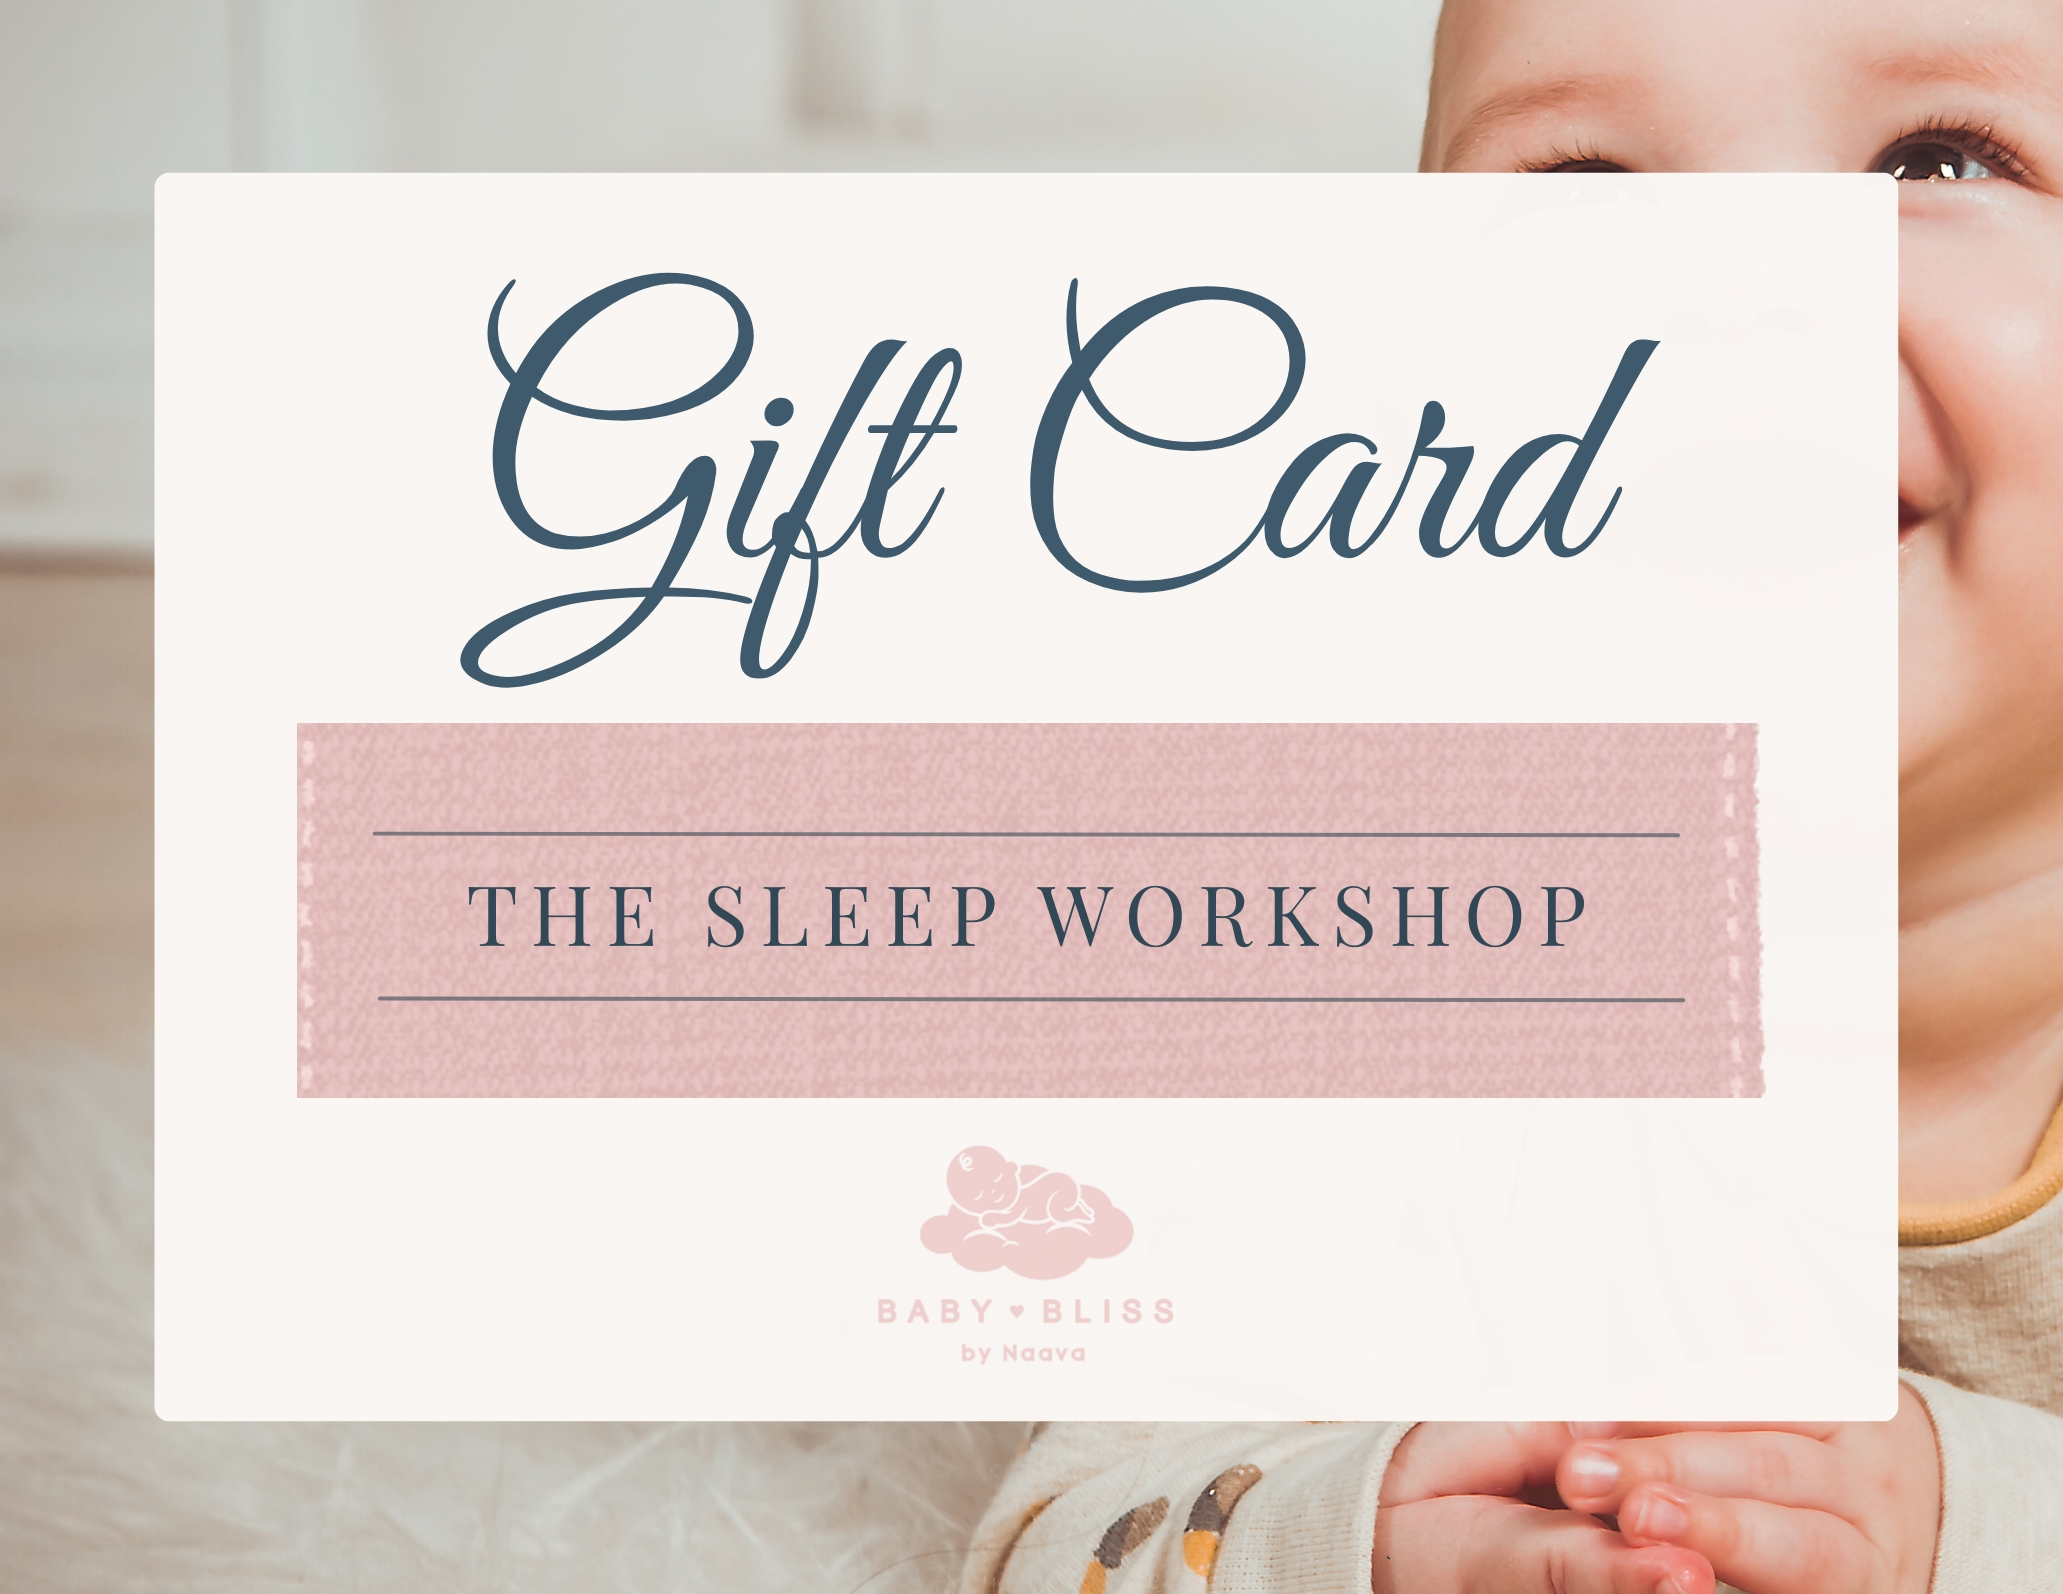
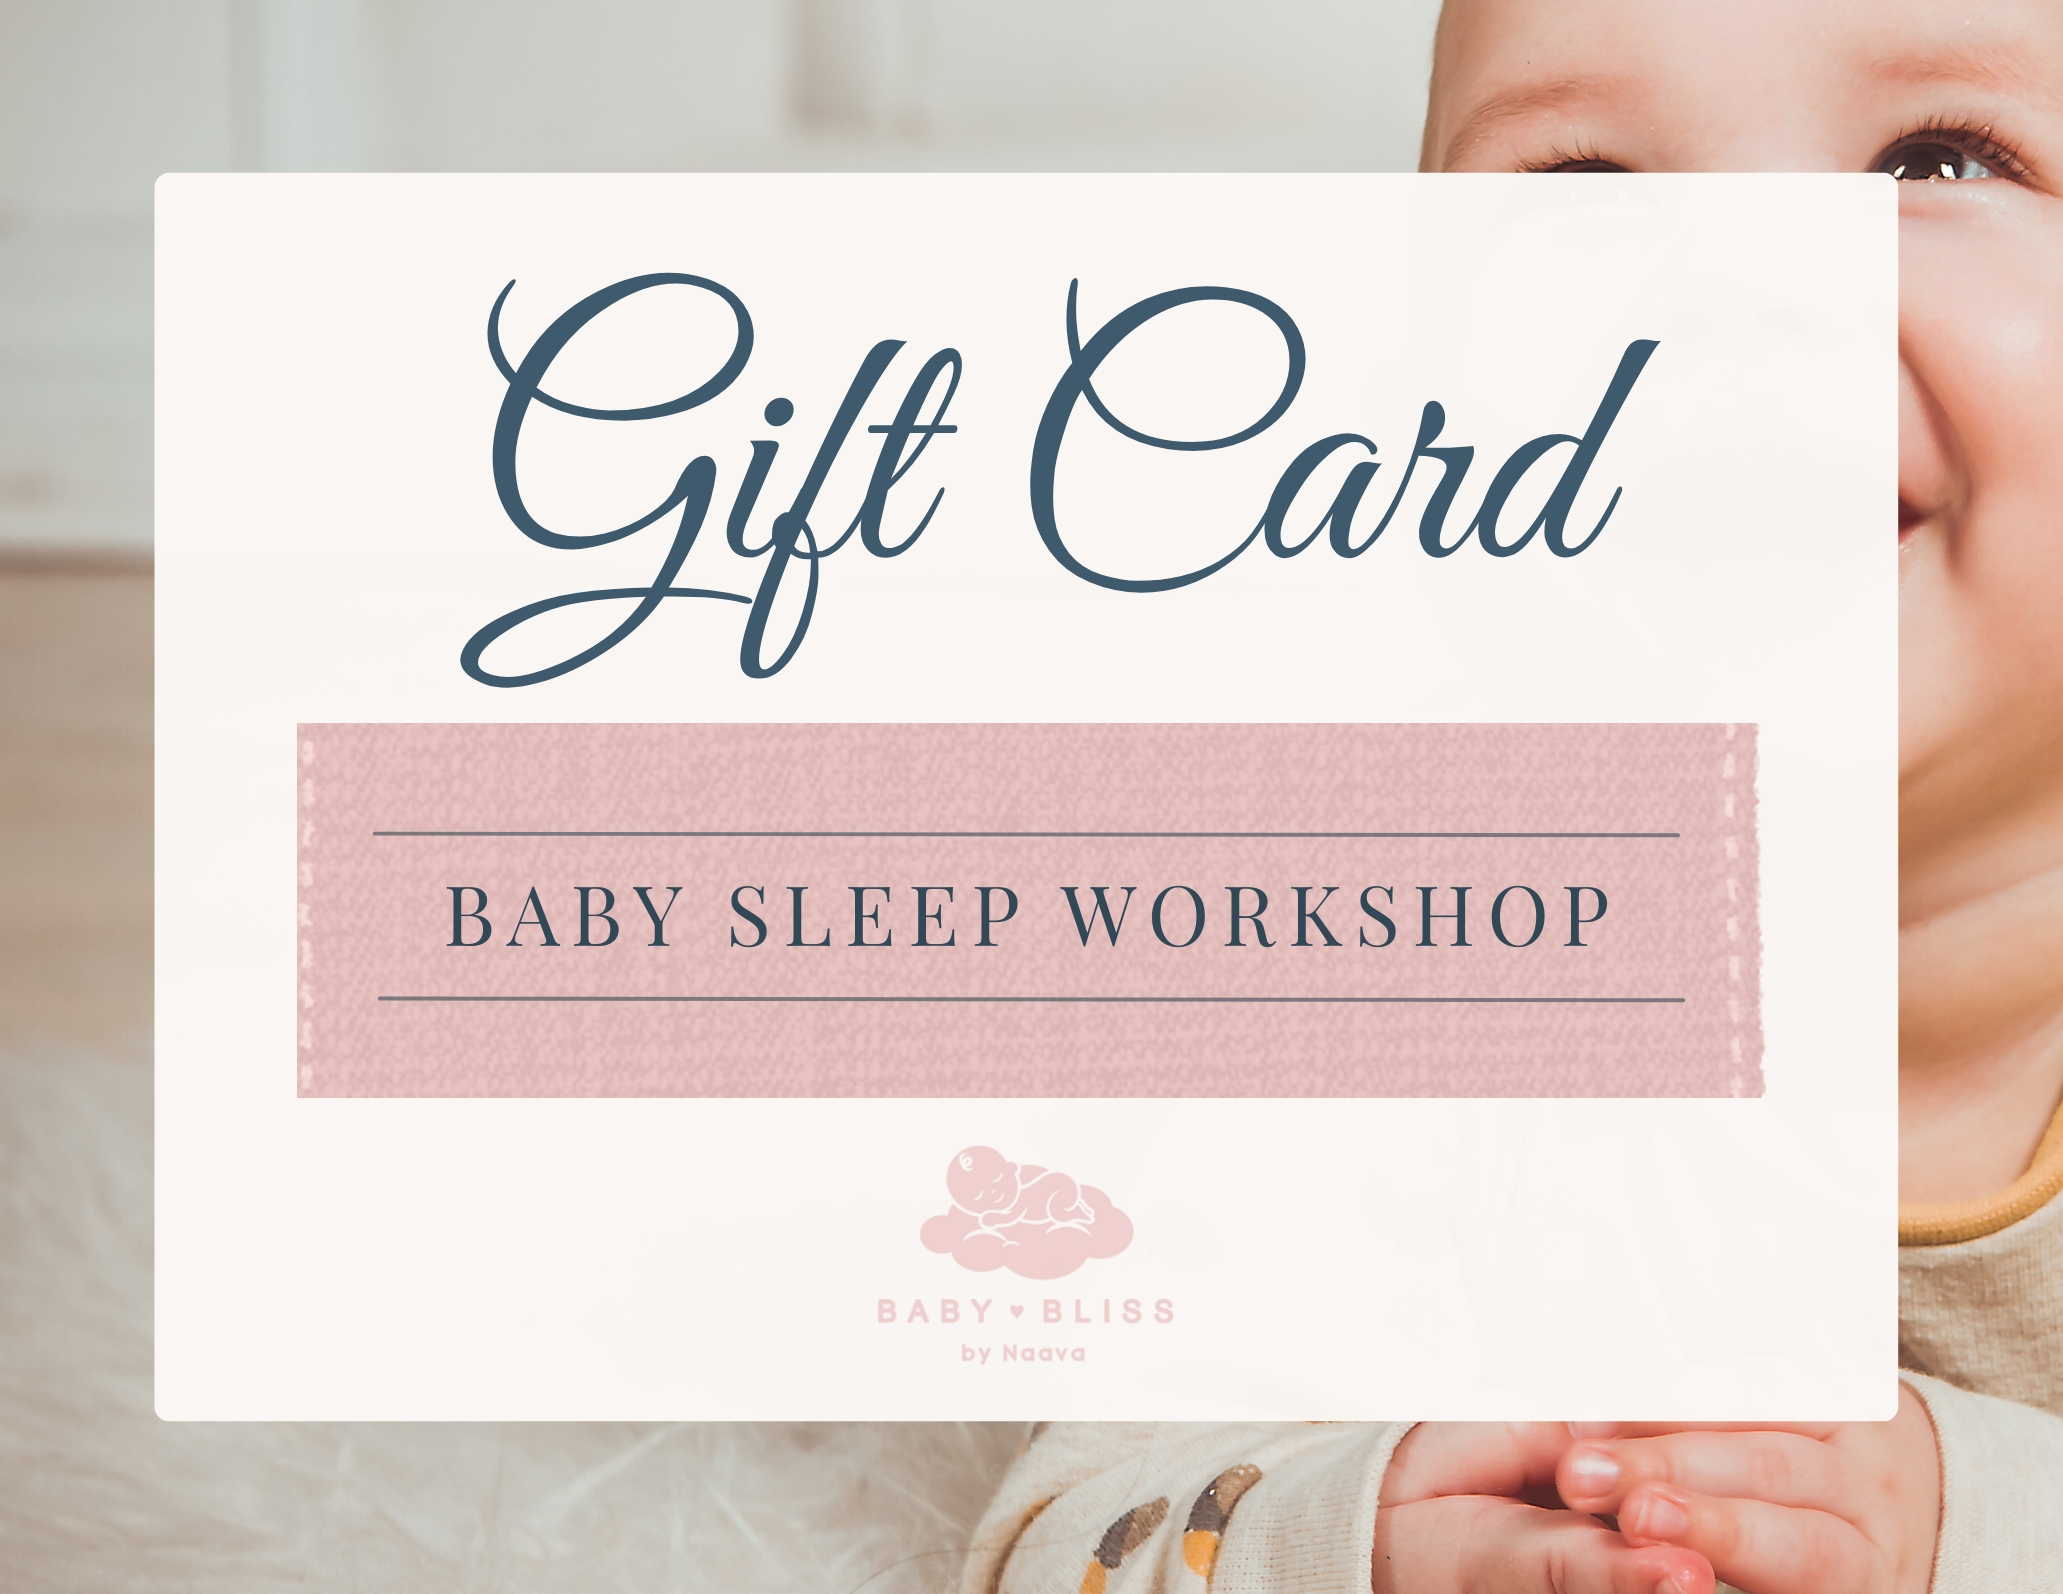
replace gift card image, main workshop title, improve gift card instructions

Changed region(s): [[0.2172, 0.5533, 0.7756, 0.6148]]

diff --git a/gift-card.html b/gift-card.html
@@ -18,8 +18,8 @@
             <div class="text-container">
               <h2 class="heading-secondary">Baby Bliss Gift Cards</h2>
               <p>
-                We offer a beautifully designed virtual gift card which upon purchase will be sent to the recipient (via
-                email).
+                We offer a beautifully designed virtual gift card which upon purchase will be sent to the recipient via
+                email.
               </p>
               <p class="mb-4">The process is just a few simple steps:</p>
               <ol class="walkthrough-list mb-4">
@@ -28,13 +28,20 @@
                   the recipient.
                 </li>
                 <li>
-                  Along with the regular workshop which is typically given via phone or video call and can be taken
-                  anywhere,
-                  <strong>in-person sessions are available in select areas in Los Angeles, California</strong> (for an
-                  additional fee). If the recipient lives or will be in the vicinity and you would like to offer them
-                  the option of in-person sessions, simply indicate this in the comments box at the bottom of the form
-                  along with the recipient's exact address. We will check if it's possible to accommodate this request,
-                  and of course get back to you.
+                  <p>
+                    Along with the regular workshop ($350) which is typically given via phone or video call and can be
+                    taken anywhere,
+                    <strong
+                      >in-person sessions ($450) are offered in select areas in Los Angeles, California, as scheduling
+                      permits</strong
+                    >
+                    (typically within 90035 and 90036 zip codes).
+                  </p>
+                  <p>
+                    If the recipient is located within this vicinity and you would like to request in-person sessions,
+                    simply indicate this in the comments box at the bottom of the form along with the recipient's full
+                    address. We will check if it's possible to accommodate this request, and of course get back to you.
+                  </p>
                 </li>
                 <li>
                   We will send you a payment link to purchase the gift card. Upon payment completion, the gift card will
@@ -42,7 +49,7 @@
                   set up the workshop!
                 </li>
               </ol>
-              <p>For any questions, just contact me at (323)840-4802.</p>
+              <p>For any questions or assistance, contact me at (323)840-4802 (phone, text, or WhatsApp).</p>
             </div>
           </div>
         </section>
@@ -103,7 +110,7 @@
                   <textarea
                     id="message"
                     name="message"
-                    placeholder="e.g. I would like the in-person workshop if possible"
+                    placeholder="e.g. I would like to request the in-person workshop"
                   ></textarea>
                 </div>
 

diff --git a/workshops.html b/workshops.html
@@ -130,7 +130,7 @@
         </div>
         <div class="pricing-wrapper mb-9" id="pricing-wrapper">
           <div class="pricing recommended bg-primary-100">
-            <p class="pricing-heading bg-primary-400 text-neutral-100 text-center">The Sleep Workshop</p>
+            <p class="pricing-heading bg-primary-400 text-neutral-100 text-center">The Baby Sleep Workshop</p>
             <div class="pricing-inner">
               <div class="pricing-main">
                 <p class="pricing-price">$350</p>

diff --git a/src/css/style.css b/src/css/style.css
@@ -718,7 +718,7 @@ visible */
 }
 
 .container-find {
-  background-image: linear-gradient(rgba(64, 90, 109, 0.65), rgba(64, 90, 109, 0.65));
+  background-image: linear-gradient(to top right, rgba(64, 90, 109, 0.35), rgba(64, 90, 109, 0.65));
 }
 
 /* DISCLAIMER/LEGAL */
